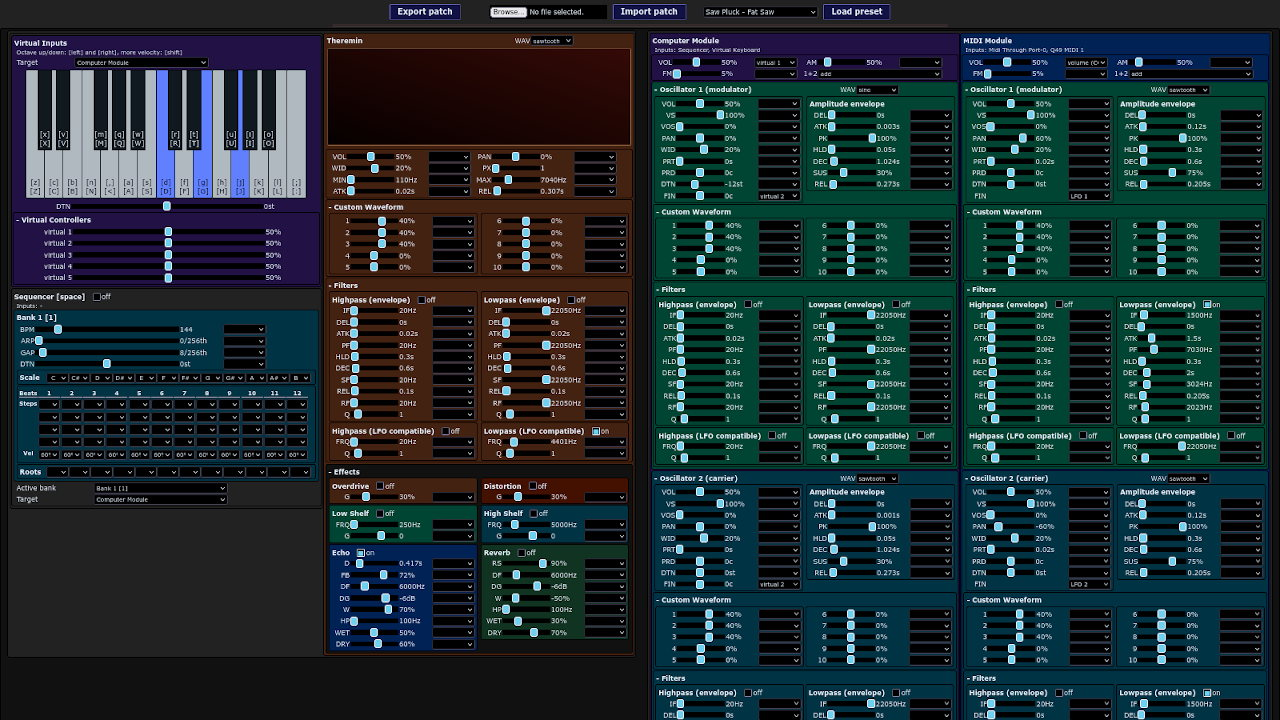
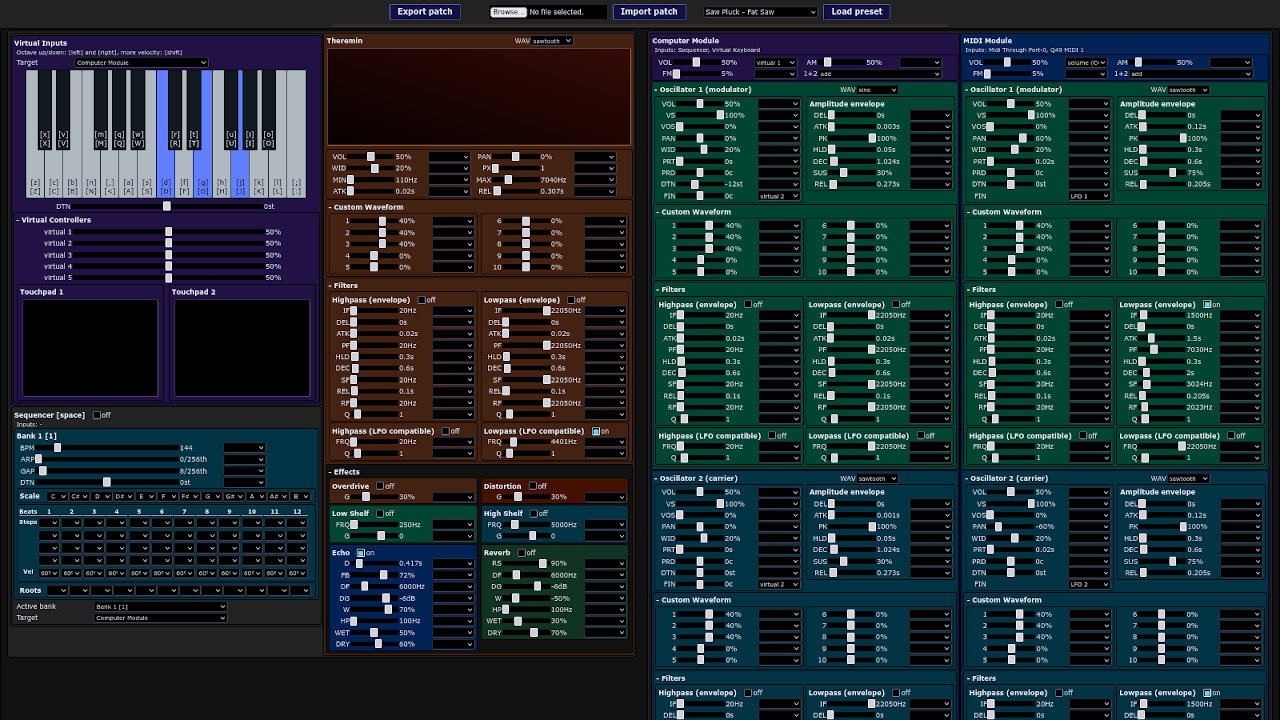
js-80: small UI tweaks - fader color and touchpads moved into the Virtual Controllers box

diff --git a/js-80/index.html b/js-80/index.html
@@ -305,29 +305,29 @@ div.param.connected-lfo label:nth-child(3) {
 input.fader::-moz-range-thumb {
   -webkit-appearance: none;
   appearance: none;
-  width: 12px;
+  width: 11px;
   height: 15px;
-  border-radius: 5px;
+  border-radius: 2px;
   border: solid 1px #f0f0f8;
-  background-color: #70d0f0;
+  background-color: #d0d0d8;
 }
 input.fader::-webkit-slider-thumb {
   -webkit-appearance: none;
   appearance: none;
-  width: 12px;
+  width: 11px;
   height: 15px;
-  border-radius: 5px;
+  border-radius: 2px;
   border: solid 1px #f0f0f8;
-  background-color: #70d0f0;
+  background-color: #d0d0d8;
 }
 input.fader::-ms-thumb {
   -webkit-appearance: none;
   appearance: none;
-  width: 12px;
+  width: 11px;
   height: 15px;
-  border-radius: 5px;
+  border-radius: 2px;
   border: solid 1px #f0f0f8;
-  background-color: #70d0f0;
+  background-color: #d0d0d8;
 }
 
 select {
@@ -5993,14 +5993,13 @@ div.color-9 { background-color: #410; }
 
         this.add(new FaderUI("DTN", "Detune (semitones)", "st", 1, 1, null, synth.virt_detune, synth));
 
-        this.add(touch_ctl_1);
-        this.add(touch_ctl_2);
-
         virt_ctls.add(new FaderUI("virtual 1", "Virtual controller 1", "%", 1000, 10, null, synth.virt_ctl_params[0], synth));
         virt_ctls.add(new FaderUI("virtual 2", "Virtual controller 2", "%", 1000, 10, null, synth.virt_ctl_params[1], synth));
         virt_ctls.add(new FaderUI("virtual 3", "Virtual controller 3", "%", 1000, 10, null, synth.virt_ctl_params[2], synth));
         virt_ctls.add(new FaderUI("virtual 4", "Virtual controller 4", "%", 1000, 10, null, synth.virt_ctl_params[3], synth));
         virt_ctls.add(new FaderUI("virtual 5", "Virtual controller 5", "%", 1000, 10, null, synth.virt_ctl_params[4], synth));
+        virt_ctls.add(touch_ctl_1);
+        virt_ctls.add(touch_ctl_2);
 
         this.add(virt_ctls);
     }

diff --git a/js-80/src/js-80.js b/js-80/src/js-80.js
@@ -5186,14 +5186,13 @@
 
         this.add(new FaderUI("DTN", "Detune (semitones)", "st", 1, 1, null, synth.virt_detune, synth));
 
-        this.add(touch_ctl_1);
-        this.add(touch_ctl_2);
-
         virt_ctls.add(new FaderUI("virtual 1", "Virtual controller 1", "%", 1000, 10, null, synth.virt_ctl_params[0], synth));
         virt_ctls.add(new FaderUI("virtual 2", "Virtual controller 2", "%", 1000, 10, null, synth.virt_ctl_params[1], synth));
         virt_ctls.add(new FaderUI("virtual 3", "Virtual controller 3", "%", 1000, 10, null, synth.virt_ctl_params[2], synth));
         virt_ctls.add(new FaderUI("virtual 4", "Virtual controller 4", "%", 1000, 10, null, synth.virt_ctl_params[3], synth));
         virt_ctls.add(new FaderUI("virtual 5", "Virtual controller 5", "%", 1000, 10, null, synth.virt_ctl_params[4], synth));
+        virt_ctls.add(touch_ctl_1);
+        virt_ctls.add(touch_ctl_2);
 
         this.add(virt_ctls);
     }

diff --git a/js-80/src/js-80.css b/js-80/src/js-80.css
@@ -287,29 +287,29 @@ div.param.connected-lfo label:nth-child(3) {
 input.fader::-moz-range-thumb {
   -webkit-appearance: none;
   appearance: none;
-  width: 12px;
+  width: 11px;
   height: 15px;
-  border-radius: 5px;
+  border-radius: 2px;
   border: solid 1px #f0f0f8;
-  background-color: #70d0f0;
+  background-color: #d0d0d8;
 }
 input.fader::-webkit-slider-thumb {
   -webkit-appearance: none;
   appearance: none;
-  width: 12px;
+  width: 11px;
   height: 15px;
-  border-radius: 5px;
+  border-radius: 2px;
   border: solid 1px #f0f0f8;
-  background-color: #70d0f0;
+  background-color: #d0d0d8;
 }
 input.fader::-ms-thumb {
   -webkit-appearance: none;
   appearance: none;
-  width: 12px;
+  width: 11px;
   height: 15px;
-  border-radius: 5px;
+  border-radius: 2px;
   border: solid 1px #f0f0f8;
-  background-color: #70d0f0;
+  background-color: #d0d0d8;
 }
 
 select {
